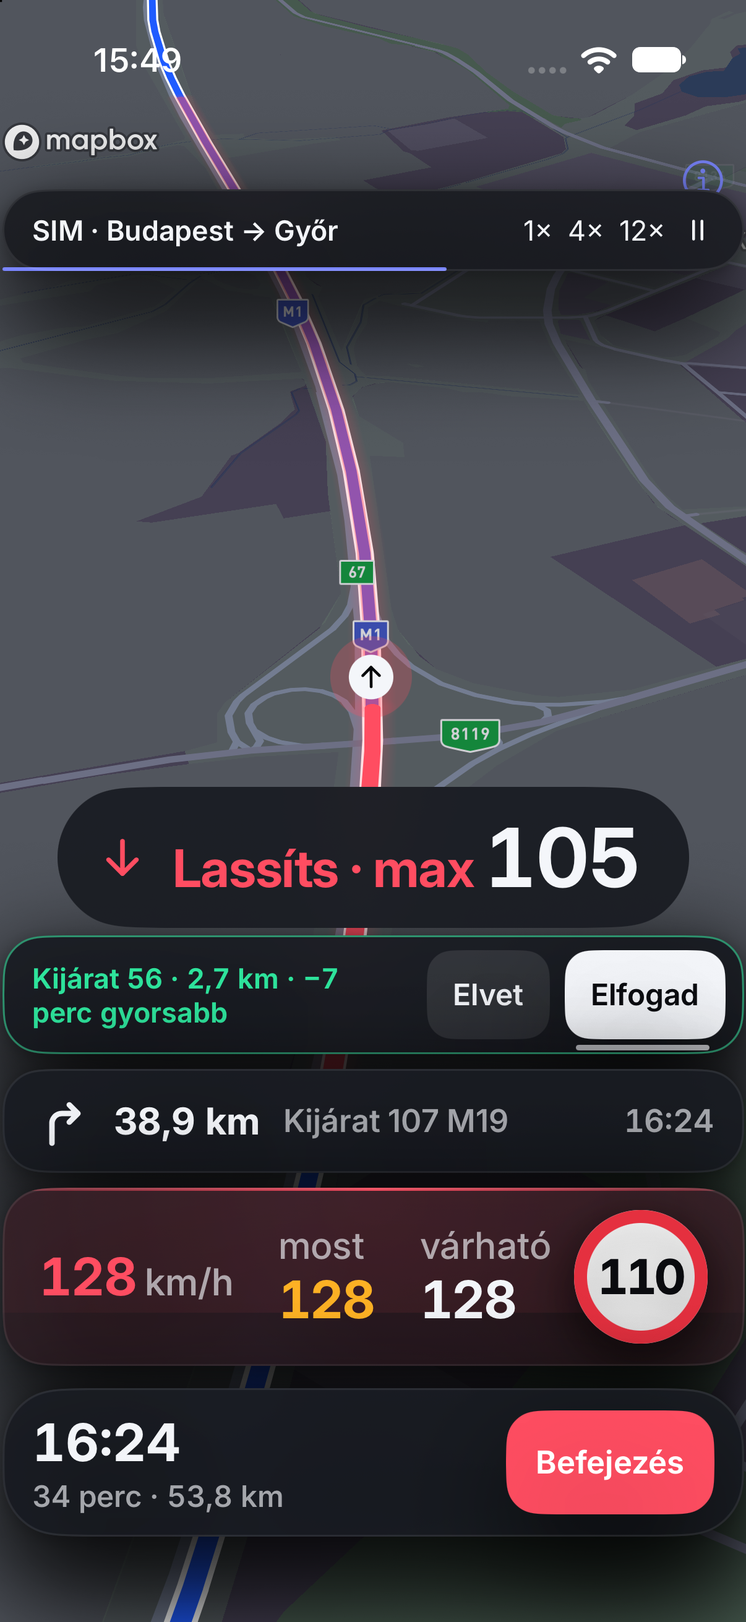
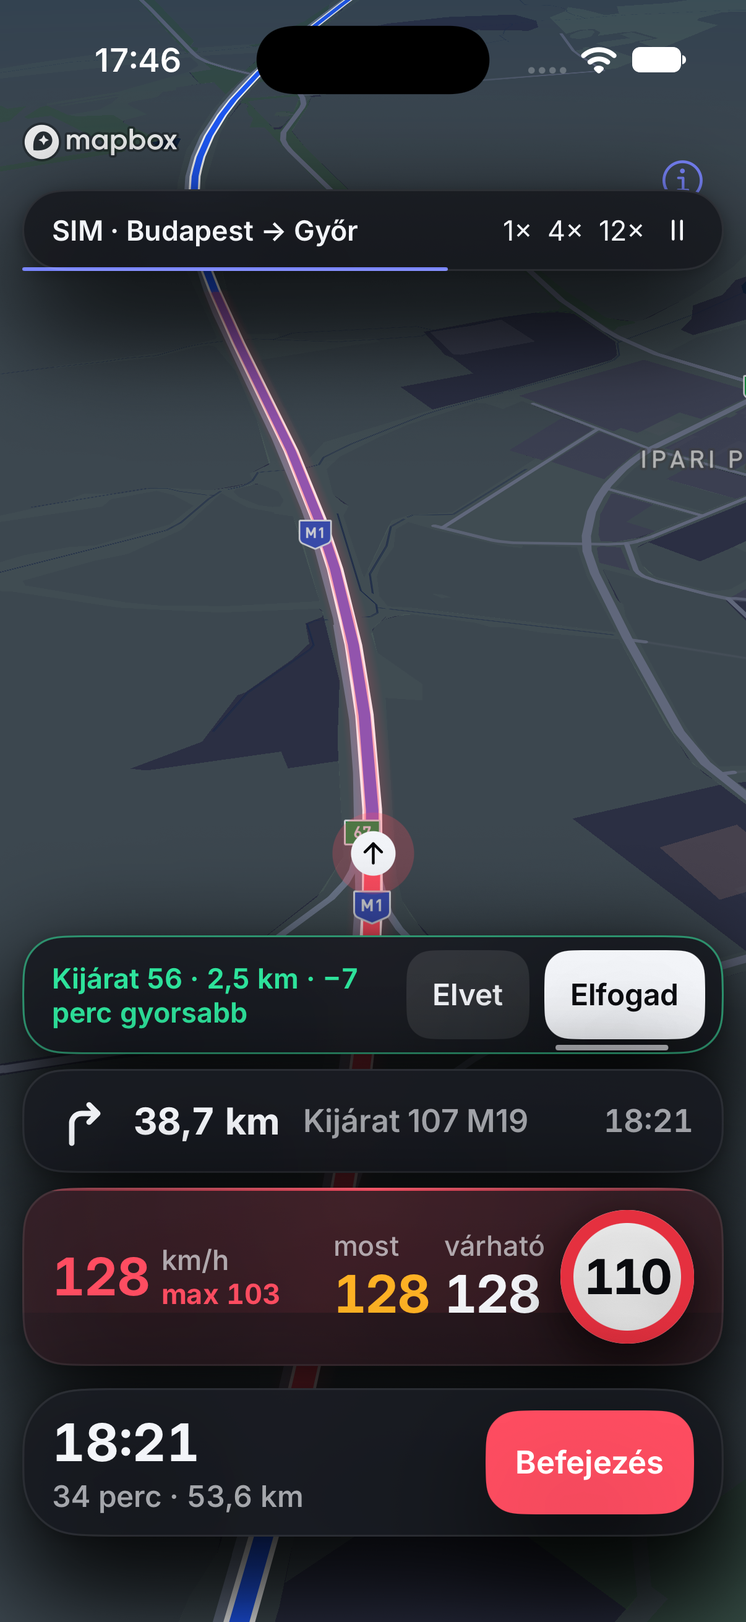
AW17 javítás: egysoros mérőkártyánál nincs külön „Lassíts” sáv – a max érték a kártyán (web + iOS)
- slowDownBarShown / compactMeterBarText (TS + Swift, azonos nevű tesztek): mérés + ajánlat esetén a
  „Lassíts · max X” / „Maradj X alatt” sáv nem jelenik meg, a „max 103” / „nem hozható” a kártyán a
  státusz színében; az ajánlat eltűnése után a sáv a teljes kártyával visszajön.
- iOS: az egysoros kártya szűkebb („·” nélkül, caption-feliratok), 390–402 pt-en nem csúszik ki.
- Szimulátor: a „visszahajtás” fejlépés hossztól függetlenül kimarad az alternatívából (egy 200 m-es
  fejlépés lett a „lehajtó”, és a „Megéri” ajánlat azonnal átváltott).
- nav-shots: két új ellenőrzés; az AOS14 kapu-ellenőrzés fix alvás helyett pollozik.

diff --git a/apps/ios/Atlagsebesseg/UI/MeterCard.swift b/apps/ios/Atlagsebesseg/UI/MeterCard.swift
@@ -87,25 +87,32 @@ struct MeterCard: View {
     private func measuringCompact(_ tone: Tone) -> some View {
         let s = view.section!
         let live = view.live!
-        return HStack(alignment: .center, spacing: Tokens.Space.s3) {
-            HStack(alignment: .firstTextBaseline, spacing: 4) {
+        // AW17-javítás: a „max X” sor miatt szűkebb: „·” elválasztó nélkül, caption-méretű feliratokkal, hogy 390–402 pt-en
+        // se legyen szélesebb a képernyőnél (különben az egész alsó csoport kicsúszna)
+        return HStack(alignment: .center, spacing: Tokens.Space.s2) {
+            HStack(alignment: .center, spacing: 6) {
                 Text(speedIn(live.averageKmh, unit).map(String.init) ?? "–")
                     .font(.num(Tokens.Typography.title.size, 700))
                     .tracking(Tokens.Typography.title.trackingPt)
                     .foregroundStyle(tone.color)
-                Text(u).font(.inter(Tokens.Typography.body.size, 560)).foregroundStyle(Tokens.Colors.textMuted)
+                // AW17-javítás: a külön „Lassíts” sáv ilyenkor nincs – egység, alatta a max érték a státusz színében
+                VStack(alignment: .leading, spacing: 0) {
+                    Text(u).font(.inter(Tokens.Typography.caption.size, 560)).foregroundStyle(Tokens.Colors.textMuted)
+                    if let bar = compactMeterBarText(meterBar(view.status, live.required), unit) {
+                        Text(bar).font(.num(Tokens.Typography.caption.size, 700)).foregroundStyle(tone.color)
+                    }
+                }
             }
             .lineLimit(1)
             .fixedSize()
             Spacer(minLength: 0)
-            MeterFigure(label: t(.hudNow), value: speedIn(view.currentKmh, unit), over: (view.currentKmh ?? 0) > s.speedLimitKmh, size: 28)
-            Text("·").font(.inter(24, 600)).foregroundStyle(Tokens.Colors.textFaint).accessibilityHidden(true)
-            MeterFigure(label: t(.hudExpected), value: speedIn(live.projectedKmh, unit), over: false, size: 28)
+            MeterFigure(label: t(.hudNow), value: speedIn(view.currentKmh, unit), over: (view.currentKmh ?? 0) > s.speedLimitKmh, size: 28, compact: true)
+            MeterFigure(label: t(.hudExpected), value: speedIn(live.projectedKmh, unit), over: false, size: 28, compact: true)
             LimitSign(kmh: s.speedLimitKmh, unit: unit, small: true)
         }
         .frame(minHeight: 48)
         .padding(.vertical, Tokens.Space.s3)
-        .padding(.horizontal, Tokens.Space.s5)
+        .padding(.horizontal, Tokens.Space.s4)
         .background(CardBackground(tone: tone, glow: 0.1))
         .clipShape(RoundedRectangle(cornerRadius: 24, style: .continuous))
         .glass(radius: 24)
@@ -507,11 +514,13 @@ private struct MeterFigure: View {
     let value: Int?
     let over: Bool
     var size: CGFloat = 44
+    /// AW17-javítás: az egysoros kártyán caption-méretű felirat.
+    var compact = false
 
     var body: some View {
         VStack(alignment: .leading, spacing: 0) {
             Text(label)
-                .font(.inter(Tokens.Typography.body.size, Tokens.Typography.body.weight))
+                .font(.inter(compact ? Tokens.Typography.caption.size : Tokens.Typography.body.size, Tokens.Typography.body.weight))
                 .foregroundStyle(Tokens.Colors.textMuted)
             Text(value.map(String.init) ?? "–")
                 .font(.num(size, 700))

diff --git a/apps/web/src/App.tsx b/apps/web/src/App.tsx
@@ -41,6 +41,7 @@ import {
   navMeterCompact,
   navResultCompact,
   navSpeedOver,
+  slowDownBarShown,
   navStepStrip,
   mapLightPreset,
   strongGlassFor,
@@ -446,6 +447,7 @@ function Drive({ map }: { map: WebMapAdapter }) {
   // AW17: navigáció közben az alsó sáv MINDIG a képernyő alján; a mérőkártya (és minden más kártya) fölötte, soha nem
   // alatta és nem helyette. Szakasz nélkül (vagy a zsugorított kézi mérésnél) csak a sáv látszik.
   const navBottomShown = nav.view !== null;
+  const meterCompact = navMeterCompact(view.phase, nav.view?.offer != null);
   const hudCardShown = !(nav.view !== null && (view.phase === 'nincs_szakasz' || pillCollapsed));
 
   // AOS13: a felső lépés-kártya egysoros sávvá zsugorodik, ha a teljes kártya az alsó csoport alá érne (mérés közben
@@ -654,7 +656,8 @@ function Drive({ map }: { map: WebMapAdapter }) {
       <PlannedBand check={activePlanned} compact={measuring} />
 
       <div className="hud" ref={hudRef} data-hidden={nav.plan !== null || nav.searchFor !== null}>
-        {view.phase === 'meres' && <SlowDown view={view} unit={settings.egyseg} />}
+        {/* AW17-javítás: egysoros mérőkártyánál (mérés + ajánlat) nincs külön sáv – a max érték a kártyában */}
+        {view.phase === 'meres' && slowDownBarShown(meterCompact) && <SlowDown view={view} unit={settings.egyseg} />}
         {/* a HUD fölött lebeg (nem változtat a magasságán → a kamera nem ugrik); mérésnél a Lassíts-sáv fölött */}
         <div className="hud-float" data-raised={view.phase === 'meres'}>
           {nav.view?.offer && <OfferCard offer={nav.view.offer} onAccept={() => nav.session?.acceptOffer()} onDecline={() => nav.session?.declineOffer()} />}
@@ -710,7 +713,7 @@ function Drive({ map }: { map: WebMapAdapter }) {
             settings={settings}
             gpsReady={view.lastFix !== null}
             navCompact={navResultCompact(view.phase, nav.view !== null)}
-            meterCompact={navMeterCompact(view.phase, nav.view?.offer != null)}
+            meterCompact={meterCompact}
             onCollapseManual={pillActive ? tapPill : undefined}
             onStopManual={stopManual}
             onDismiss={session.dismiss}

diff --git a/packages/app-logic/test/navigation.test.ts b/packages/app-logic/test/navigation.test.ts
@@ -1,4 +1,4 @@
-import { LocalProjection, Route, type GpsFix, type LatLon, type Section } from '@atlagsebesseg/core';
+import { LocalProjection, meterBar, Route, type GpsFix, type LatLon, type Section } from '@atlagsebesseg/core';
 import type { FixedCamera } from '../src/cameras';
 import { PLANNED_MATCH_M, type PlannedCheck } from '../src/plannedChecks';
 import { voiceInstructionsHint } from '../src/display';
@@ -24,6 +24,8 @@ import {
   savedChips,
   thenText,
   ALT_LABEL_PLACE,
+  compactMeterBarText,
+  slowDownBarShown,
   altDeltaText,
   altOfferCompactText,
   mercatorScreen,
@@ -1620,6 +1622,22 @@ describe('AW17: elrendezés, „Utána” 5 km-en belül, tábla és mérés, Be
     expect(navSpeedOver(110, 110)).toBe(false);
     expect(navSpeedOver(150, null)).toBe(false);
     expect(navSpeedOver(null, 50)).toBe(false);
+  });
+
+  it('egysoros kártyánál nincs külön „Lassíts” sáv – a max érték a kártyában; teljes kártyánál a sáv visszajön', () => {
+    expect(slowDownBarShown(navMeterCompact('meres', true))).toBe(false);
+    expect(slowDownBarShown(navMeterCompact('meres', false))).toBe(true);
+    // a 137 / 130 / 108-as példa: „lassíts”, max 115
+    expect(compactMeterBarText(meterBar('lassits', { kind: 'ok', maxKmh: 115.28 }), 'kmh')).toBe('max 115');
+    expect(compactMeterBarText(meterBar('tul_gyors', { kind: 'ok', maxKmh: 103.4 }), 'kmh')).toBe('max 103');
+    expect(compactMeterBarText(meterBar('tul_gyors', { kind: 'nem_lehetseges', maxKmh: 40 }), 'kmh')).toBe('nem hozható');
+    expect(compactMeterBarText(meterBar('jo', { kind: 'ok', maxKmh: 140 }), 'kmh')).toBeNull();
+    expect(compactMeterBarText(meterBar('tul_gyors', { kind: 'ok', maxKmh: 160.934 }), 'mph')).toBe('max 100');
+    for (const lang of LANGUAGES) {
+      setLanguage(lang);
+      expect(compactMeterBarText({ kind: 'max', maxKmh: 115 }, 'kmh'), lang).toMatch(/115/);
+      expect(compactMeterBarText({ kind: 'nem_hozhato' }, 'kmh'), lang).toBeTruthy();
+    }
   });
 
   it('mérés + ajánlat egyszerre: a mérőkártya egysoros; ajánlat nélkül vagy mérésen kívül teljes', () => {

diff --git a/apps/web/src/ui/Hud.tsx b/apps/web/src/ui/Hud.tsx
@@ -1,4 +1,5 @@
 import {
+  compactMeterBarText,
   formatDistance,
   sectionSourceLabel,
   formatDuration,
@@ -104,14 +105,19 @@ export function Hud(p: HudProps) {
         <span className="chip neutral">{t('hud.starting')}</span>
       );
       const nowOver = (view.currentKmh ?? 0) > s.speedLimitKmh;
-      if (p.meterCompact)
+      if (p.meterCompact) {
+        // AW17-javítás: a külön „Lassíts” sáv ilyenkor nincs – a max érték a kártyán, a státusz színében
+        const barText = compactMeterBarText(meterBar(view.status, live.required), unit);
         return (
           // AW17: egy sor – átlag a státusz színével, most · várható, tábla; az ajánlat eltűnése után visszanő
           <Card tone={tone} label={t('hud.measure')} compact>
             <div className="compact-row meter-compact">
               <div className="compact-speed num tone">
                 {speedIn(live.averageKmh, unit) ?? '–'}
-                <small> {u}</small>
+                <span className="meter-compact-side">
+                  <small>{u}</small>
+                  {barText && <b className="meter-compact-max tone">{barText}</b>}
+                </span>
               </div>
               <div className="meter-fig">
                 <span className="body muted">{t('hud.now')}</span>
@@ -130,6 +136,7 @@ export function Hud(p: HudProps) {
             </div>
           </Card>
         );
+      }
       return (
         <Card tone={tone} label={t('hud.measure')}>
           <div className="row">

diff --git a/apps/ios/AtlagsebessegTests/NavigationTests.swift b/apps/ios/AtlagsebessegTests/NavigationTests.swift
@@ -1784,6 +1784,22 @@ struct AW17LayoutTests {
         #expect(!navSpeedOver(nil, 50))
     }
 
+    @Test("egysoros kártyánál nincs külön „Lassíts” sáv – a max érték a kártyában; teljes kártyánál a sáv visszajön")
+    func lassitsSavEgysoros() {
+        #expect(!slowDownBarShown(navMeterCompact(.meres, offer: true)))
+        #expect(slowDownBarShown(navMeterCompact(.meres, offer: false)))
+        // a 137 / 130 / 108-as példa: „lassíts”, max 115
+        #expect(compactMeterBarText(meterBar(.lassits, .ok(maxKmh: 115.28)), .kmh, lang: .hu) == "max 115")
+        #expect(compactMeterBarText(meterBar(.tulGyors, .ok(maxKmh: 103.4)), .kmh, lang: .hu) == "max 103")
+        #expect(compactMeterBarText(meterBar(.tulGyors, .nemLehetseges(maxKmh: 40)), .kmh, lang: .hu) == "nem hozható")
+        #expect(compactMeterBarText(meterBar(.jo, .ok(maxKmh: 140)), .kmh, lang: .hu) == nil)
+        #expect(compactMeterBarText(meterBar(.tulGyors, .ok(maxKmh: 160.934)), .mph, lang: .hu) == "max 100")
+        for lang in Lang.allCases {
+            #expect(compactMeterBarText(.max(maxKmh: 115), .kmh, lang: lang)?.contains("115") == true, "\(lang)")
+            #expect(!(compactMeterBarText(.nemHozhato, .kmh, lang: lang) ?? "").isEmpty, "\(lang)")
+        }
+    }
+
     @Test("mérés + ajánlat egyszerre: a mérőkártya egysoros; ajánlat nélkül vagy mérésen kívül teljes")
     func egysorosMero() {
         #expect(navMeterCompact(.meres, offer: true))

diff --git a/packages/app-logic/src/navigation/layout.ts b/packages/app-logic/src/navigation/layout.ts
@@ -1,4 +1,8 @@
+import type { MeterBar } from '@atlagsebesseg/core';
+import { speedIn } from '../display';
+import { t } from '../i18n';
 import type { SessionPhase } from '../session';
+import type { SpeedUnit } from '../settings';
 import { MANUAL_PILL } from './config';
 
 /**
@@ -99,4 +103,20 @@ export function navSpeedOver(currentKmh: number | null, signKmh: number | null):
  */
 export function navMeterCompact(phase: SessionPhase, offer: boolean): boolean {
   return phase === 'meres' && offer;
+}
+
+/**
+ * AW17-javítás: a külön „Lassíts · max X” / „Maradj X alatt” sáv csak a teljes mérőkártyával látszik. Egysoros kártyánál
+ * (mérés + ajánlat, `navMeterCompact`) a max érték és a státusz-szín a kártyában van (`compactMeterBarText`); az ajánlat
+ * eltűnése után a sáv a teljes kártyával visszajön.
+ */
+export function slowDownBarShown(meterCompact: boolean): boolean {
+  return !meterCompact;
+}
+
+/** AW17-javítás: az egysoros mérőkártya „max 103” / „nem hozható” felirata a `meterBar`-ból (`null`: nincs mit mutatni). */
+export function compactMeterBarText(bar: MeterBar | null, unit: SpeedUnit): string | null {
+  if (!bar) return null;
+  if (bar.kind === 'nem_hozhato') return t('slowdown.compactCant');
+  return t('slowdown.compactMax', { x: speedIn(bar.maxKmh, unit) ?? '' });
 }

diff --git a/apps/ios/Atlagsebesseg/Navigation/Layout.swift b/apps/ios/Atlagsebesseg/Navigation/Layout.swift
@@ -1,3 +1,4 @@
+import AtlagsebessegCore
 import Foundation
 
 // A packages/app-logic/src/navigation/layout.ts portja (AOS13): a felső lépés-kártya egysoros sávvá zsugorodik, ha
@@ -88,3 +89,20 @@ nonisolated func navSpeedOver(_ currentKmh: Double?, _ signKmh: Double?) -> Bool
 nonisolated func navMeterCompact(_ phase: SessionPhase, offer: Bool) -> Bool {
     phase == .meres && offer
 }
+
+/// AW17-javítás: a külön „Lassíts · max X” / „Maradj X alatt” sáv csak a teljes mérőkártyával látszik. Egysoros kártyánál
+/// (mérés + ajánlat, `navMeterCompact`) a max érték és a státusz-szín a kártyában van (`compactMeterBarText`); az ajánlat
+/// eltűnése után a sáv a teljes kártyával visszajön.
+nonisolated func slowDownBarShown(_ meterCompact: Bool) -> Bool {
+    !meterCompact
+}
+
+/// AW17-javítás: az egysoros mérőkártya „max 103” / „nem hozható” felirata a `meterBar`-ból (`nil`: nincs mit mutatni).
+nonisolated func compactMeterBarText(_ bar: MeterBar?, _ unit: SpeedUnit, lang: Lang? = nil) -> String? {
+    switch bar {
+    case nil: nil
+    case .nemHozhato: t(.slowdownCompactCant, lang: lang)
+    case .max(let maxKmh): t(.slowdownCompactMax, ["x": speedIn(maxKmh, unit).map(String.init) ?? ""], lang: lang)
+    }
+}
+

diff --git a/apps/web/src/sim/navSim.ts b/apps/web/src/sim/navSim.ts
@@ -193,10 +193,12 @@ function fasterAlternative(base: NavRoute, id: string, gainS = 420, extraM = 0, 
   });
   const total = base.segDurationS.reduce((a, b) => a + b, 0);
   const k = Math.max(0.2, (total - gainS) / total);
-  // a szimulált „visszahajtás” rövid fejlépése csak a szimulátor műterméke (igazi, friss Directions-hívásban nincs): az alternatíva nélküle indul
+  // a szimulált „visszahajtás” fejlépése csak a szimulátor műterméke (igazi, friss Directions-hívásban nincs): az alternatíva
+  // nélküle indul. AW17-javítás: hossztól függetlenül (egy 200 m-es fejlépés lett a „lehajtó”, és a „Megéri” ajánlat az
+  // 500 m-es szabály szerint azonnal átváltott)
   const head = base.steps[0];
   const baseSteps =
-    head && head.endManeuver.type === 'merge' && head.distanceM < 150 && base.steps.length > 1
+    head && head.endManeuver.type === 'merge' && base.steps.length > 1
       ? base.steps.slice(1).map((s, k) => (k === 0 ? { ...s, startM: 0, distanceM: s.distanceM + head.distanceM } : s))
       : base.steps;
   const shiftedSteps = baseSteps.map((s) => {

diff --git a/apps/ios/Atlagsebesseg/Sim/NavSim.swift b/apps/ios/Atlagsebesseg/Sim/NavSim.swift
@@ -175,9 +175,11 @@ enum NavSim {
         }
         let total = base.segDurationS.reduce(0, +)
         let k = max(0.2, (total - gainS) / total)
-        // a szimulált „visszahajtás” rövid fejlépése csak a szimulátor műterméke (igazi, friss Directions-hívásban nincs): az alternatíva nélküle indul
+        // a szimulált „visszahajtás” fejlépése csak a szimulátor műterméke (igazi, friss Directions-hívásban nincs): az
+        // alternatíva nélküle indul. AW17-javítás: hossztól függetlenül (egy 200 m-es fejlépés lett a „lehajtó”, és a
+        // „Megéri” ajánlat az 500 m-es szabály szerint azonnal átváltott)
         var baseSteps = base.steps
-        if let head = base.steps.first, head.endManeuver.type == "merge", head.distanceM < 150, base.steps.count > 1 {
+        if let head = base.steps.first, head.endManeuver.type == "merge", base.steps.count > 1 {
             baseSteps = Array(base.steps.dropFirst())
             baseSteps[0].startM = 0
             baseSteps[0].distanceM += head.distanceM

diff --git a/apps/web/src/styles.css b/apps/web/src/styles.css
@@ -407,11 +407,36 @@ select:focus-visible {
 
 /* AW17: mérés + ajánlat – a mérőkártya egy sorban (átlag · most · várható · tábla) */
 .meter-compact {
-  gap: 10px;
+  gap: 8px;
+}
+
+/* AW17-javítás: a számoszlopok nem zsugorodnak a felirat alá; a „·” elválasztó helyett a térköz választ el */
+.meter-compact .meter-fig {
+  flex: none;
+}
+
+.meter-compact .meter-sep {
+  display: none;
 }
 
 .meter-compact .meter-num {
   font-size: 28px;
+}
+
+/* AW17-javítás: az átlag mellett két kis sor – egység, alatta „max 103” a státusz színében */
+.meter-compact-side {
+  display: inline-flex;
+  flex-direction: column;
+  margin-left: 6px;
+  vertical-align: middle;
+  line-height: 1.15;
+}
+
+.meter-compact-max {
+  font-size: var(--type-caption-size);
+  font-weight: 700;
+  color: var(--tone);
+  white-space: nowrap;
 }
 
 .meter-compact .meter-fig .body {

diff --git a/apps/ios/Atlagsebesseg/UI/DriveView.swift b/apps/ios/Atlagsebesseg/UI/DriveView.swift
@@ -239,8 +239,11 @@ struct DriveView: View {
                         onCollapseManual: collapseManual
                     )
                 }
-                SlowDownBar(view: view, unit: unit)
-                    .alignmentGuide(.top) { $0[.bottom] + 4 }
+                // AW17-javítás: egysoros mérőkártyánál (mérés + ajánlat) nincs külön sáv – a max érték a kártyában
+                if slowDownBarShown(navMeterCompact(view.phase, offer: model.nav?.offer != nil)) {
+                    SlowDownBar(view: view, unit: unit)
+                        .alignmentGuide(.top) { $0[.bottom] + 4 }
+                }
             }
             .animation(.easeOut(duration: Tokens.Motion.base), value: view.phase)
             .animation(.easeOut(duration: Tokens.Motion.base), value: model.nav?.offer != nil)

diff --git a/ROUNDS.md b/ROUNDS.md
@@ -28,4 +28,4 @@
 | AW15 | 2026-10-29 | Opus 5.5 (helyi) | `262a868` | Kristof és apja észrevételei, weben és iOS-en: nyelvválasztó zászlóval, ábécérendben (iOS-en saját választó, `LangChoice`), a mentett hely keresője a Beállítások fölött (választás után a lap ugyanott marad), harmadik térképstílus „Világos” (mindig nappali fény, erősebb üveg a kontrasztért), „Kézi átlagmérés” cím, navigáció közben pillé zsugorodó kézi kártya (5 s / bökés / közeli manőver, ajánlat, kamera) és kompakt kézi eredmény, a pill újrakérésére jött PERMISSION_DENIED a tiltott-lapot nyitja; app-logic 194, web 60, nav-shots 96/96 (check-only; teljes futás 102/103, a hiba a javított tesztszelektor), i18n 18/18, AppTests 173 + core-swift 86 zöld, 6 webes + 6 iOS-kép. (local) |
 | AW16 | 2026-10-30 | Sonnet 5.5 (helyi) | `5aef350` | AW15 utómunka Kristof visszajelzése alapján, weben és iOS-en: a kézi mérés zsugorított kártyája a mérőkártya lekicsinyített változata státusz-színnel (indítás után 5 s / hely-igénynél 3 s), a kézi mérés privát (nincs kapu-küldés), Bejelentés menü „Átlagmérés eleje / vége” (iOS-en AOS14-ben), térképstílus-szabály (a sötét mód nem számít; Világos = day, Színes = dusk napközben), kereső kerek gombja felül jobbra, iOS nyelvsor, web–iOS paritás-szabály a CLAUDE.md-ben. (local) **Javítva (2026-10-30):** a zsugorított kézi kártya átlag-száma mindig a kézi mérés accent színében (kézi mérésnél nincs referencia); a sebességhatárhoz mért zöld/borostyán/piros logika, tesztjei és a `-miniStatus` / `?miniStatus=` kapcsolók kikerültek. |
 | AOS14 | 2026-10-30 | Opus 5.5 (helyi) | `29dd608` | Bejelentés + szavazás iOS-en (a web A5 + AW16 portja: menü a webes tételekkel és sorrenddel, reports / active_reports / report_votes, jelölők, kártya, toast), új „Még ott van?” kártya közeledéskor weben és iOS-en (±45°, 200 m, egyszer kérdez, közös TS + Swift logika azonos nevű tesztekkel – Kristof döntése a kör elején), Live Activity widget-kiterjesztéssel (mérés: átlag státusz-színnel, limit, most, várható, hátralévő km; kézi: csak átlag; navigáció: manőver, távolság, utca, érkezés; ≤ 1 Hz), köszöntés („Megszólítás”, „Szia Kristof!”, köszönés a navigáció indításakor, 6 nyelv); app-logic 208, web 60, nav-shots 119/119, i18n 18/18, AppTests 196 + core-swift 86 zöld, 6 iOS-kép (a Live Activity a fej nélküli szimulátoron mock-előnézet). (local) | **Javítva (2026-10-30, `f4ce0de`):** a közeledő bejelentés EGY kártya a kamera-figyelmeztetés helyén (navigációban a manőverkártyán, különben ugyanott önállóan), 200 m-en belül helyben „Még ott van? Igen / Nem”, válasz / elhaladás / 10 s után eltűnik és nem tér vissza (elhaladás csak a bejelentés közelében járva – hajtűkanyar-hiba javítva); „Átlagmérés eleje / vége” egy tétel (eleje → vége, a mérés / navigáció végén vissza), weben és iOS-en; az iOS szimulátor is az éles Supabase-re küld (mint a web), élőben kipróbálva: `reports` + `report_votes` sor, `confirmations` = 1; app-logic 213, web 60, nav-shots 123/123, i18n 18/18, AppTests 201 + core-swift 86 zöld. **Javítás 2 (2026-10-30):** a kérdésre váltás 50 m-rel a bejelentés előtt (nem 200 m-nél), a kérdés az elhaladás után még 10 s-ig látható (válaszra azonnal tűnik el), ugyanaz az elem helyben vált; weben és iOS-en, közös TS + Swift logika, páros tesztek; iOS „Átlagmérés vége” menükép (`-gateStarted YES`), az elavult menükép és CLAUDE.md-sor frissítve; app-logic 214, web 60, nav-shots 123/123, i18n 18/18, AppTests 202 + core-swift 86 zöld.
-| AW17 | 2026-10-30 | Opus 5.5 (helyi) | `2a9a0ea` | Navigációs elrendezés, ajánlat-logika, mérés-függvény, weben és iOS-en: az alsó navigációs sáv mindig legalul, a mérőkártya fölötte; mérés közben sebesség nélkül, a km/h piros a bal alsó tábla fölött (csak szín); mérés + ajánlat: egysoros mérőkártya; kompakt ajánlat „Kijárat 56 · 2,5 km · −7 perc gyorsabb” (6 nyelv); „Megéri” ajánlat 500 m-en belül magától elfogad (a hang a kézi elfogadásé); „Utána” sor csak 5 km-en belül; útvonalválasztó címke képernyő-pontban (`placeAltLabel`: a saját szakasz messze eső pontja mellett, a leágazást és a cél-jelölőt nem takarja; közös TS = Swift logika); Beállítások: a külön „Hang” sor helyett zárójeles info; mérés-függvény ellenőrizve (137 / 130 / most 108, 2,0 / 7 km → Maradj 115, várható 127 – a kód eddig is ezt adta), közös fixtúra-tesztek, a Mapbox-tábla nem változtatja a mérés határát; app-logic 227, core 108 + 1 kihagyott, web 60, nav-shots 136/136, i18n 18/18, AppTests 215 + core-swift 89 zöld, NavigationTests 105 = TS 105 azonos névvel, 6 webes + 6 iOS-kép. (local) |
+| AW17 | 2026-10-30 | Opus 5.5 (helyi) | `2a9a0ea` | Navigációs elrendezés, ajánlat-logika, mérés-függvény, weben és iOS-en: az alsó navigációs sáv mindig legalul, a mérőkártya fölötte; mérés közben sebesség nélkül, a km/h piros a bal alsó tábla fölött (csak szín); mérés + ajánlat: egysoros mérőkártya; kompakt ajánlat „Kijárat 56 · 2,5 km · −7 perc gyorsabb” (6 nyelv); „Megéri” ajánlat 500 m-en belül magától elfogad (a hang a kézi elfogadásé); „Utána” sor csak 5 km-en belül; útvonalválasztó címke képernyő-pontban (`placeAltLabel`: a saját szakasz messze eső pontja mellett, a leágazást és a cél-jelölőt nem takarja; közös TS = Swift logika); Beállítások: a külön „Hang” sor helyett zárójeles info; mérés-függvény ellenőrizve (137 / 130 / most 108, 2,0 / 7 km → Maradj 115, várható 127 – a kód eddig is ezt adta), közös fixtúra-tesztek, a Mapbox-tábla nem változtatja a mérés határát; app-logic 227, core 108 + 1 kihagyott, web 60, nav-shots 136/136, i18n 18/18, AppTests 215 + core-swift 89 zöld, NavigationTests 105 = TS 105 azonos névvel, 6 webes + 6 iOS-kép. (local) | **Javítva (2026-10-30):** egysoros mérőkártyánál (mérés + ajánlat) nincs külön „Lassíts · max X” sáv – a max érték („max 103” / „nem hozható”) a kártyán, a státusz színében; az ajánlat eltűnése után a sáv a teljes kártyával visszajön (`slowDownBarShown`, `compactMeterBarText`, TS + Swift azonos nevű tesztekkel), weben és iOS-en; iOS-en az egysoros kártya szűkebb (390–402 pt-en nem csúszik ki); a szimulátor „visszahajtás” fejlépése hossztól függetlenül kimarad (különben 200 m-es „lehajtóra” azonnal auto-váltott); a nav-shots AOS14 kapu-ellenőrzése fix 800 ms helyett a küldést és a lap bezárását várja (időnként bukott); app-logic 228, web 60, nav-shots 138/138, AppTests 216 + core-swift 89 zöld, NavigationTests 106 = TS 106.
